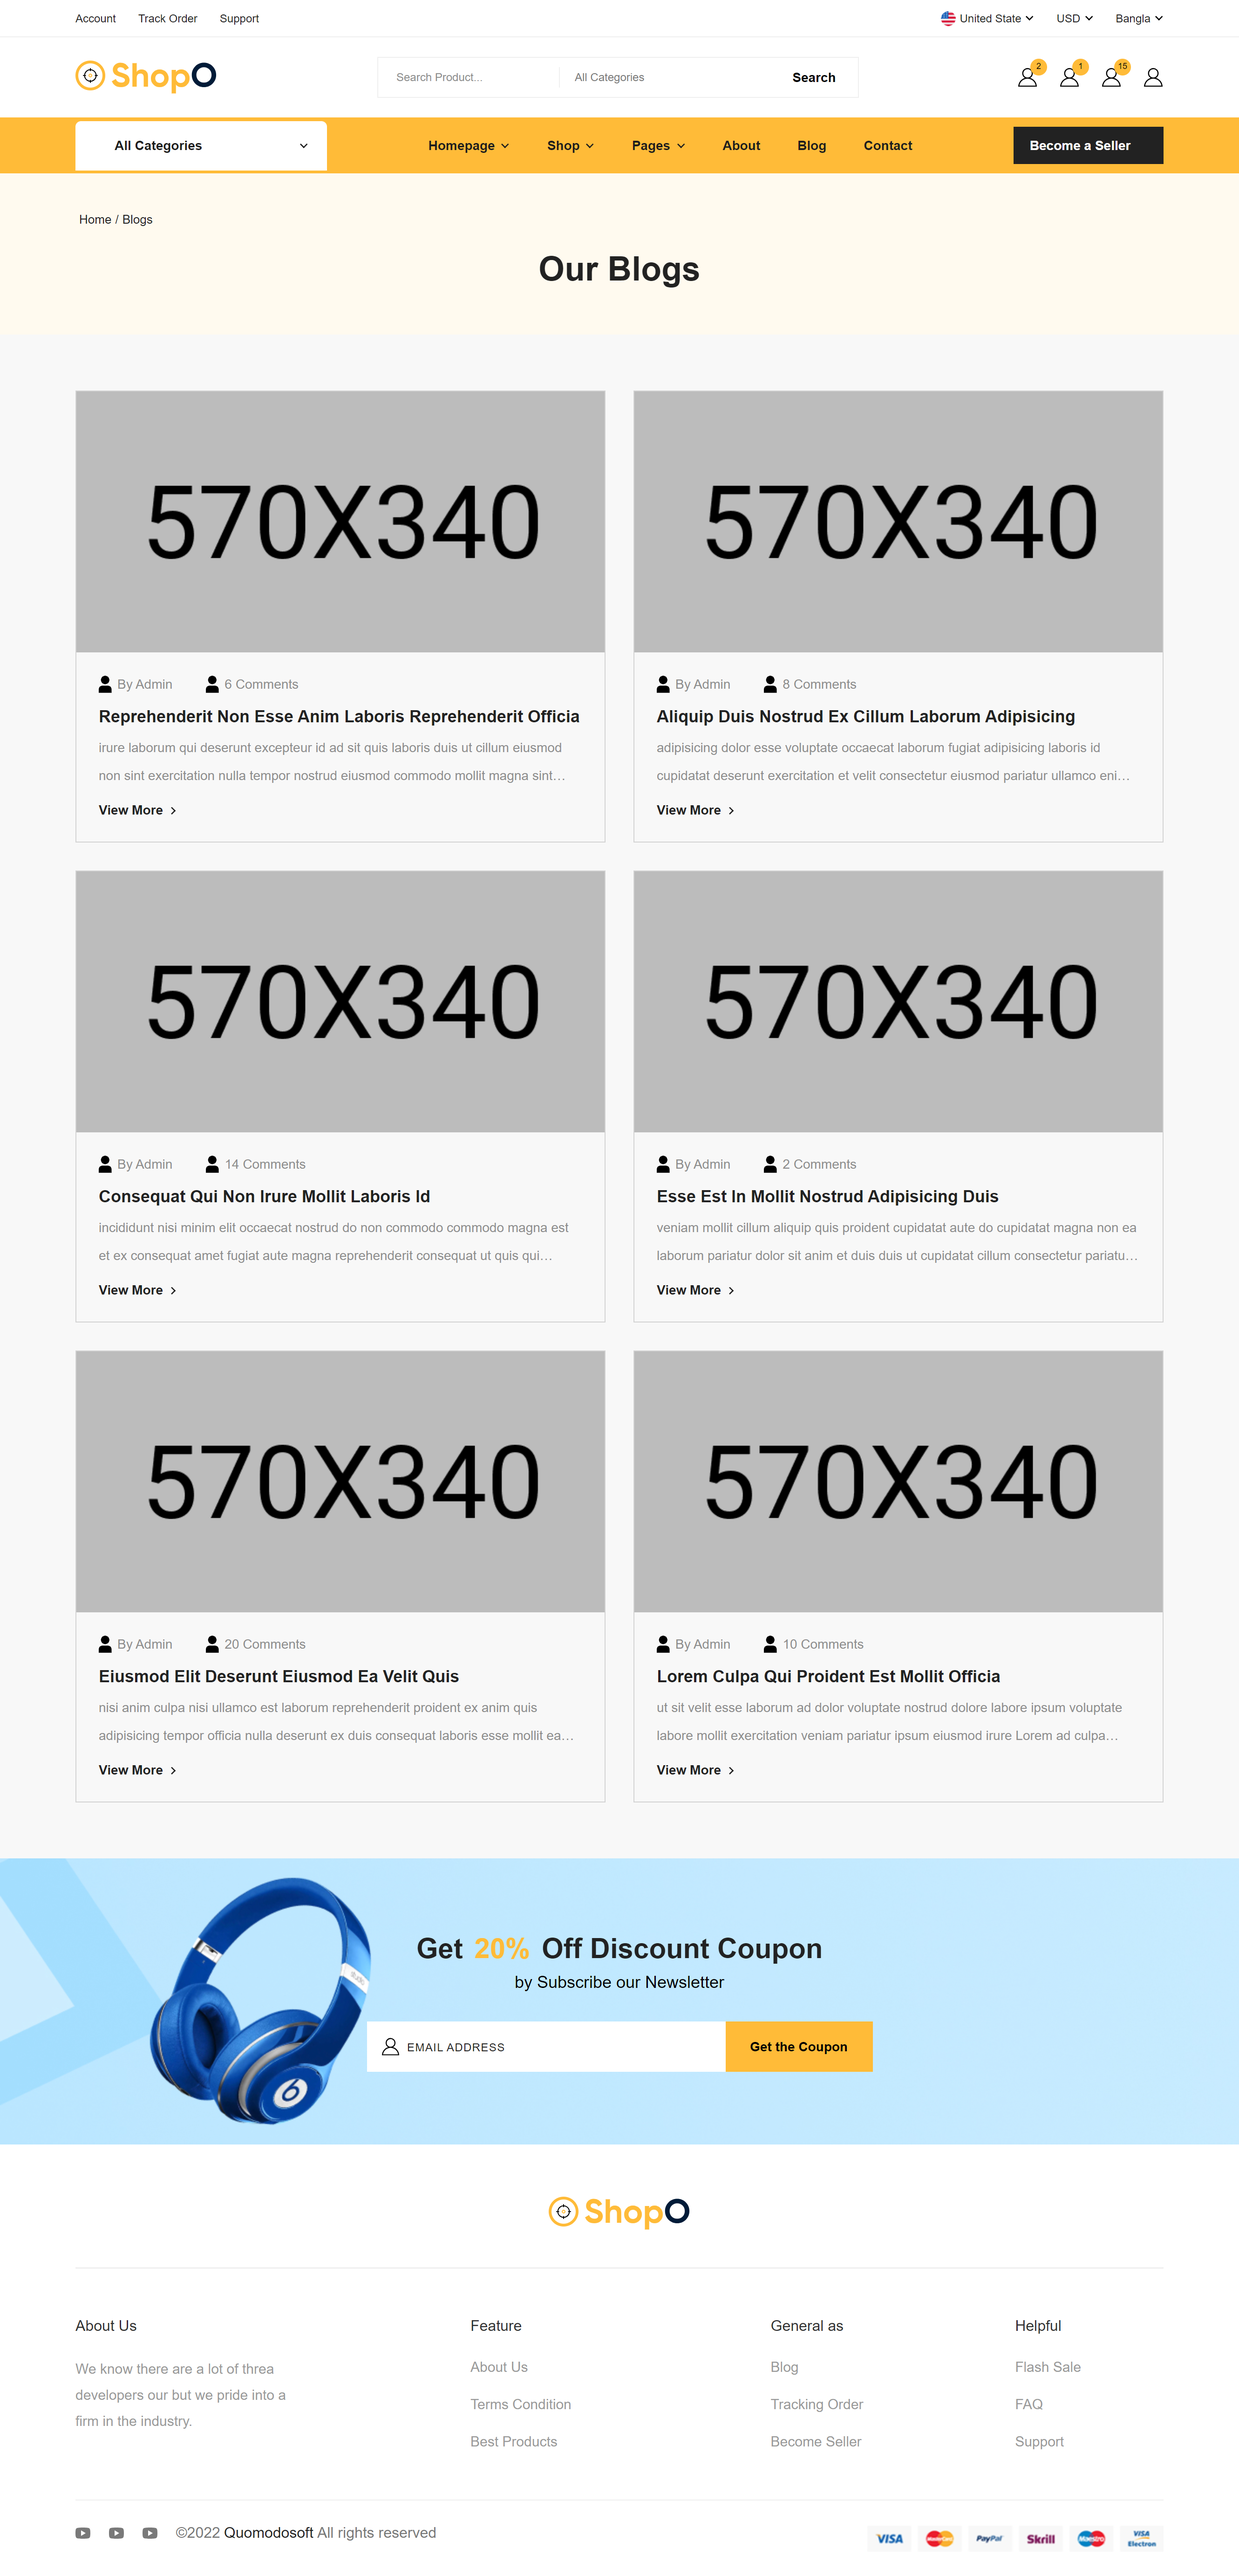
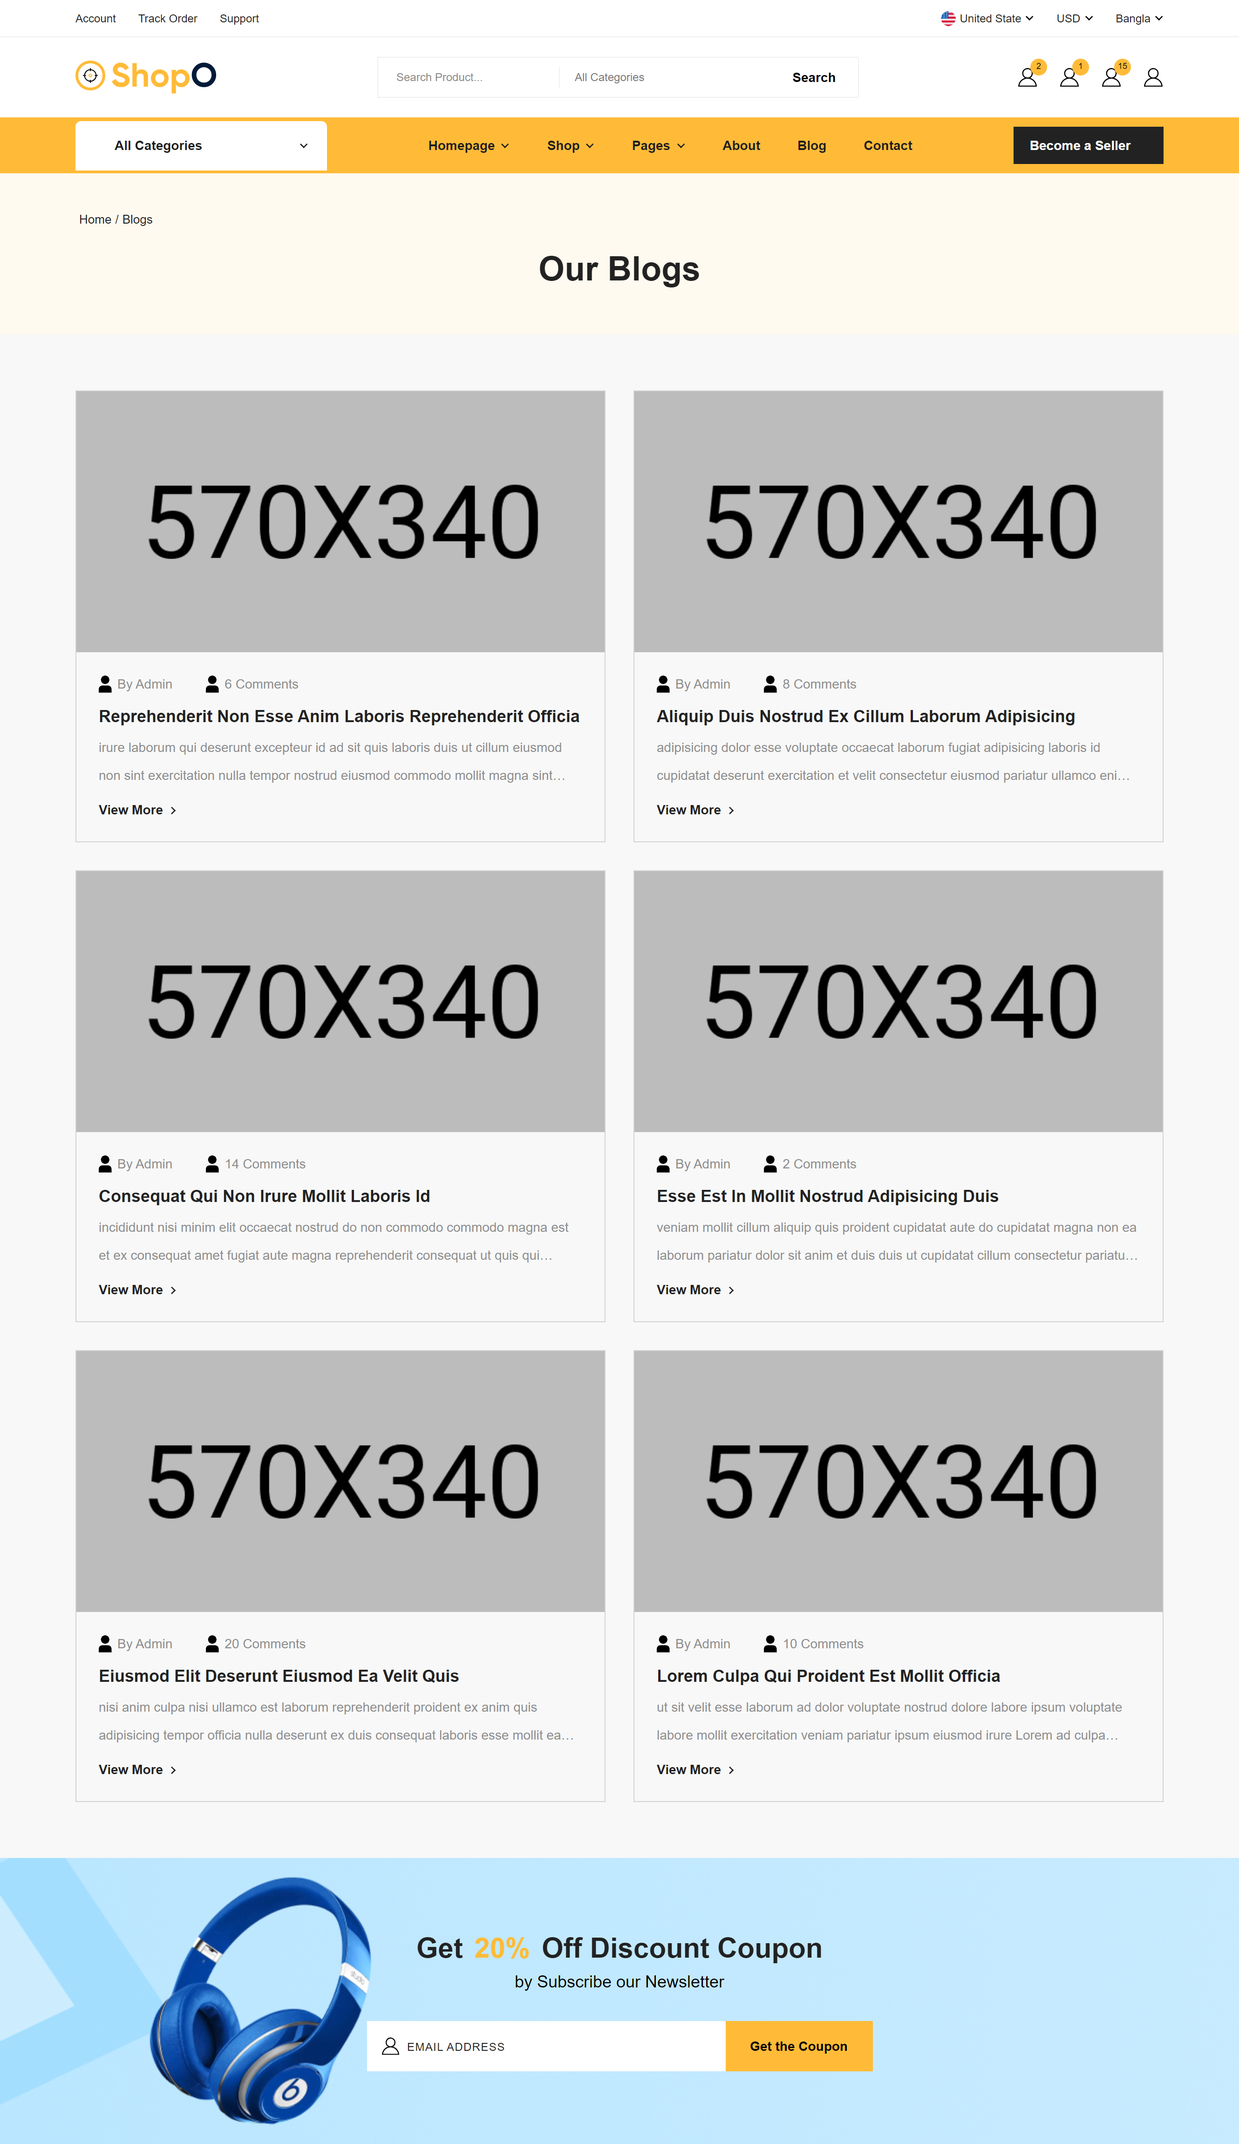
footer deleted

diff --git a/src/components/Layout.jsx b/src/components/Layout.jsx
@@ -1,7 +1,6 @@
 import { useState } from "react";
 import DiscountBanner from "./DiscountBanner";
 import Drawer from "./Drawer";
-import Footer from "./Footer";
 import Header from "./Headers";
 
 export default function Layout({ children, childrenClasses }) {
@@ -15,7 +14,6 @@ export default function Layout({ children, childrenClasses }) {
           {children && children}
         </div>
         <DiscountBanner />
-        <Footer />
       </div>
     </>
   );
